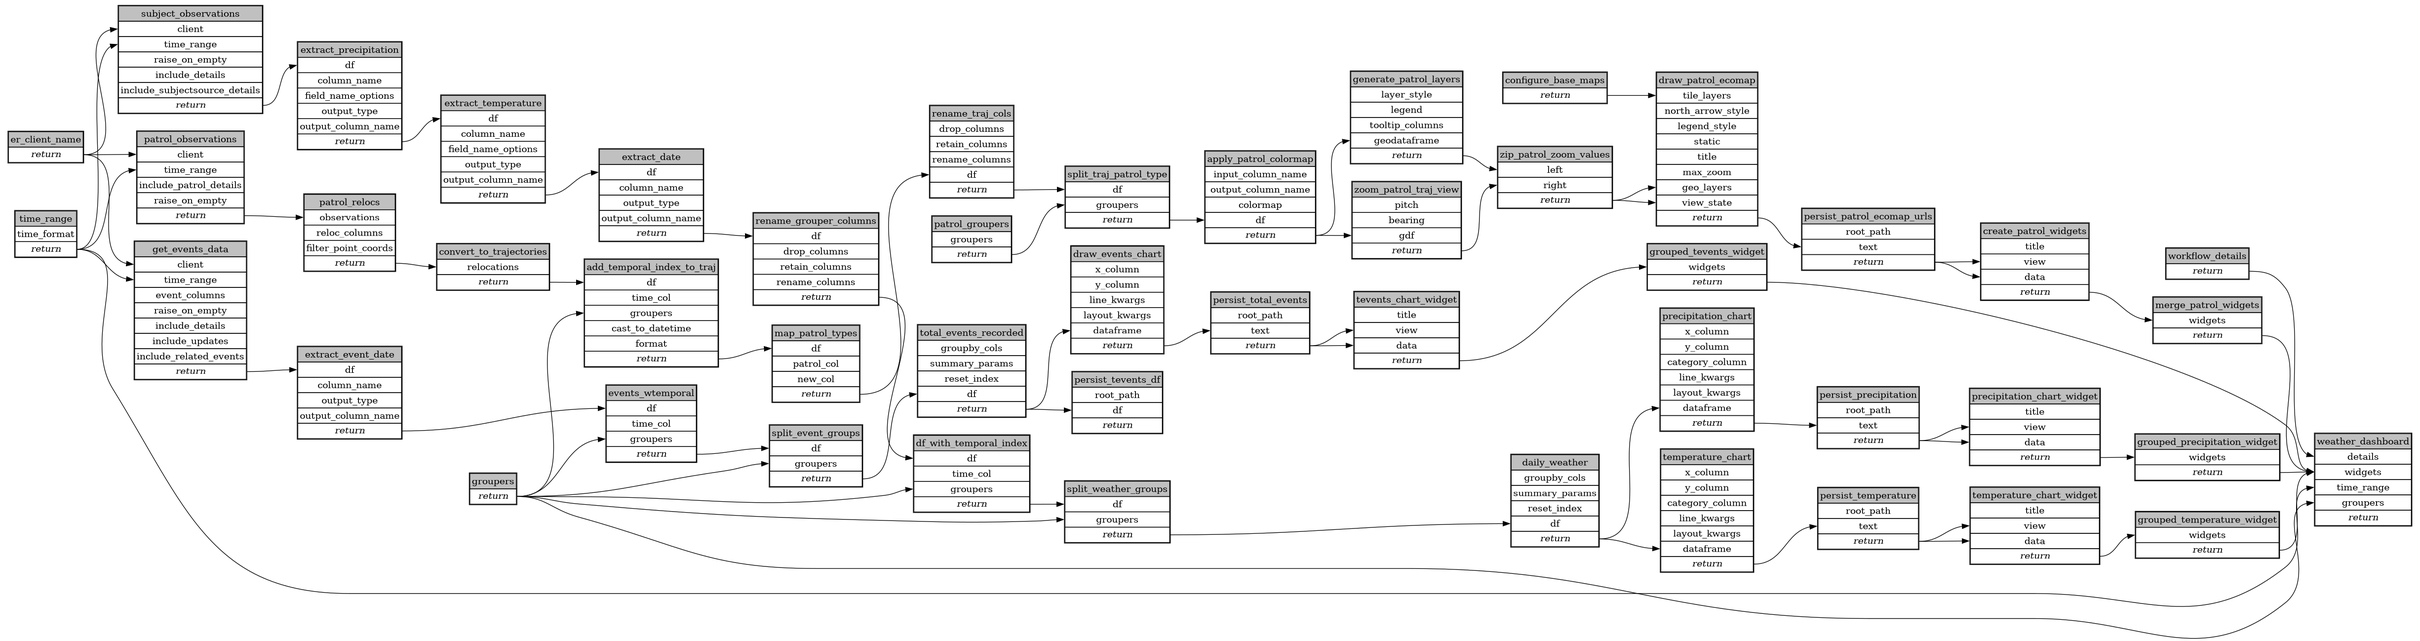
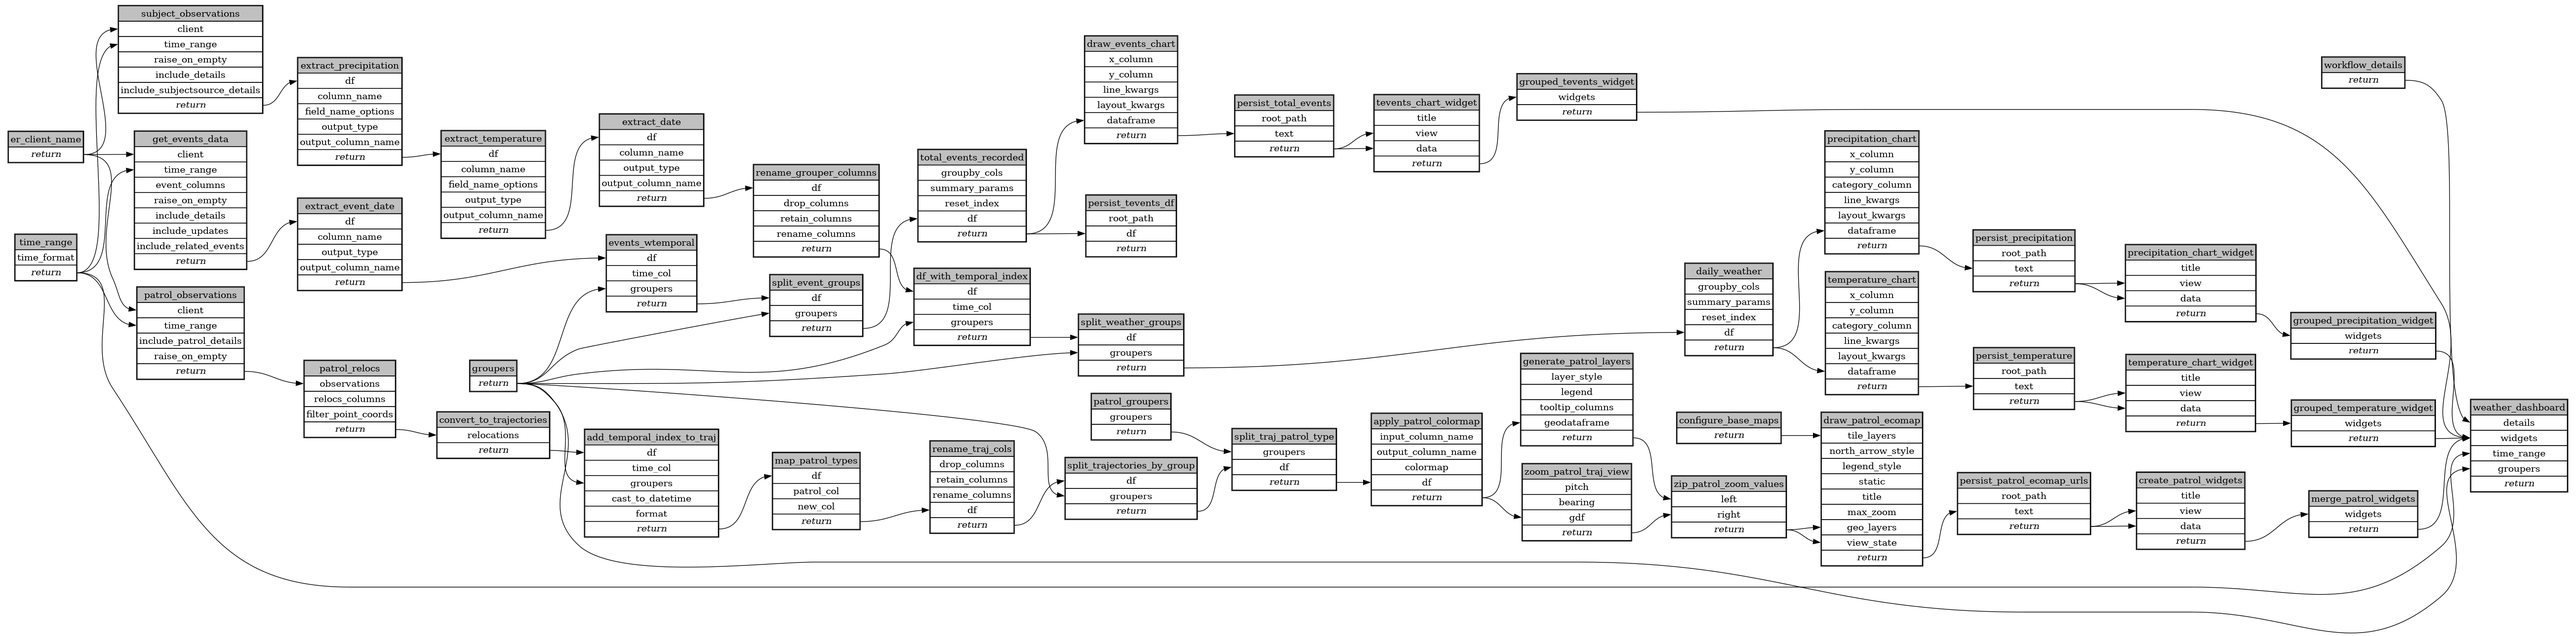
fix relocs_column keyword on patrol_observations and also group patrol observations by initial grouper and split it further based on patrol type

diff --git a/workflows/customized_report/ecoscope-workflows-customized-report-workflow/ecoscope_workflows_customized_report_workflow/dags/run_async_mock_io.py b/workflows/customized_report/ecoscope-workflows-customized-report-workflow/ecoscope_workflows_customized_report_workflow/dags/run_async_mock_io.py
@@ -134,8 +134,9 @@ def main(params: Params):
         "add_temporal_index_to_traj": ["convert_to_trajectories", "groupers"],
         "map_patrol_types": ["add_temporal_index_to_traj"],
         "rename_traj_cols": ["map_patrol_types"],
+        "split_trajectories_by_group": ["rename_traj_cols", "groupers"],
         "patrol_groupers": [],
-        "split_traj_patrol_type": ["rename_traj_cols", "patrol_groupers"],
+        "split_traj_patrol_type": ["patrol_groupers", "split_trajectories_by_group"],
         "apply_patrol_colormap": ["split_traj_patrol_type"],
         "generate_patrol_layers": ["apply_patrol_colormap"],
         "zoom_patrol_traj_view": ["apply_patrol_colormap"],
@@ -642,7 +643,7 @@ def main(params: Params):
             .set_executor("lithops"),
             partial={
                 "observations": DependsOn("patrol_observations"),
-                "reloc_columns": [
+                "relocs_columns": [
                     "extra__id",
                     "extra__created_at",
                     "extra__subject_id",
@@ -729,6 +730,17 @@ def main(params: Params):
             | (params_dict.get("rename_traj_cols") or {}),
             method="call",
         ),
+        "split_trajectories_by_group": Node(
+            async_task=split_groups.validate()
+            .handle_errors(task_instance_id="split_trajectories_by_group")
+            .set_executor("lithops"),
+            partial={
+                "df": DependsOn("rename_traj_cols"),
+                "groupers": DependsOn("groupers"),
+            }
+            | (params_dict.get("split_trajectories_by_group") or {}),
+            method="call",
+        ),
         "patrol_groupers": Node(
             async_task=set_groupers.validate()
             .handle_errors(task_instance_id="patrol_groupers")
@@ -744,11 +756,14 @@ def main(params: Params):
             .handle_errors(task_instance_id="split_traj_patrol_type")
             .set_executor("lithops"),
             partial={
-                "df": DependsOn("rename_traj_cols"),
                 "groupers": DependsOn("patrol_groupers"),
             }
             | (params_dict.get("split_traj_patrol_type") or {}),
-            method="call",
+            method="mapvalues",
+            kwargs={
+                "argnames": ["df"],
+                "argvalues": DependsOn("split_trajectories_by_group"),
+            },
         ),
         "apply_patrol_colormap": Node(
             async_task=apply_color_map.validate()

diff --git a/workflows/customized_report/ecoscope-workflows-customized-report-workflow/ecoscope_workflows_customized_report_workflow/dags/run_async.py b/workflows/customized_report/ecoscope-workflows-customized-report-workflow/ecoscope_workflows_customized_report_workflow/dags/run_async.py
@@ -92,8 +92,9 @@ def main(params: Params):
         "add_temporal_index_to_traj": ["convert_to_trajectories", "groupers"],
         "map_patrol_types": ["add_temporal_index_to_traj"],
         "rename_traj_cols": ["map_patrol_types"],
+        "split_trajectories_by_group": ["rename_traj_cols", "groupers"],
         "patrol_groupers": [],
-        "split_traj_patrol_type": ["rename_traj_cols", "patrol_groupers"],
+        "split_traj_patrol_type": ["patrol_groupers", "split_trajectories_by_group"],
         "apply_patrol_colormap": ["split_traj_patrol_type"],
         "generate_patrol_layers": ["apply_patrol_colormap"],
         "zoom_patrol_traj_view": ["apply_patrol_colormap"],
@@ -600,7 +601,7 @@ def main(params: Params):
             .set_executor("lithops"),
             partial={
                 "observations": DependsOn("patrol_observations"),
-                "reloc_columns": [
+                "relocs_columns": [
                     "extra__id",
                     "extra__created_at",
                     "extra__subject_id",
@@ -687,6 +688,17 @@ def main(params: Params):
             | (params_dict.get("rename_traj_cols") or {}),
             method="call",
         ),
+        "split_trajectories_by_group": Node(
+            async_task=split_groups.validate()
+            .handle_errors(task_instance_id="split_trajectories_by_group")
+            .set_executor("lithops"),
+            partial={
+                "df": DependsOn("rename_traj_cols"),
+                "groupers": DependsOn("groupers"),
+            }
+            | (params_dict.get("split_trajectories_by_group") or {}),
+            method="call",
+        ),
         "patrol_groupers": Node(
             async_task=set_groupers.validate()
             .handle_errors(task_instance_id="patrol_groupers")
@@ -702,11 +714,14 @@ def main(params: Params):
             .handle_errors(task_instance_id="split_traj_patrol_type")
             .set_executor("lithops"),
             partial={
-                "df": DependsOn("rename_traj_cols"),
                 "groupers": DependsOn("patrol_groupers"),
             }
             | (params_dict.get("split_traj_patrol_type") or {}),
-            method="call",
+            method="mapvalues",
+            kwargs={
+                "argnames": ["df"],
+                "argvalues": DependsOn("split_trajectories_by_group"),
+            },
         ),
         "apply_patrol_colormap": Node(
             async_task=apply_color_map.validate()

diff --git a/workflows/customized_report/ecoscope-workflows-customized-report-workflow/ecoscope_workflows_customized_report_workflow/dags/jupytext.py b/workflows/customized_report/ecoscope-workflows-customized-report-workflow/ecoscope_workflows_customized_report_workflow/dags/jupytext.py
@@ -903,9 +903,7 @@ patrol_observations = (
 # %%
 # parameters
 
-patrol_relocs_params = dict(
-    relocs_columns=...,
-)
+patrol_relocs_params = dict()
 
 # %%
 # call the task
@@ -915,7 +913,7 @@ patrol_relocs = (
     process_relocations.handle_errors(task_instance_id="patrol_relocs")
     .partial(
         observations=patrol_observations,
-        reloc_columns=[
+        relocs_columns=[
             "extra__id",
             "extra__created_at",
             "extra__subject_id",
@@ -1052,6 +1050,27 @@ rename_traj_cols = (
 
 
 # %% [markdown]
+# ## Split Trajectories by Group
+
+# %%
+# parameters
+
+split_trajectories_by_group_params = dict()
+
+# %%
+# call the task
+
+
+split_trajectories_by_group = (
+    split_groups.handle_errors(task_instance_id="split_trajectories_by_group")
+    .partial(
+        df=rename_traj_cols, groupers=groupers, **split_trajectories_by_group_params
+    )
+    .call()
+)
+
+
+# %% [markdown]
 # ## Set patrol type category groupers
 
 # %%
@@ -1084,10 +1103,8 @@ split_traj_patrol_type_params = dict()
 
 split_traj_patrol_type = (
     split_groups.handle_errors(task_instance_id="split_traj_patrol_type")
-    .partial(
-        df=rename_traj_cols, groupers=patrol_groupers, **split_traj_patrol_type_params
-    )
-    .call()
+    .partial(groupers=patrol_groupers, **split_traj_patrol_type_params)
+    .mapvalues(argnames=["df"], argvalues=split_trajectories_by_group)
 )
 
 

diff --git a/workflows/customized_report/ecoscope-workflows-customized-report-workflow/ecoscope_workflows_customized_report_workflow/dags/run_sequential.py b/workflows/customized_report/ecoscope-workflows-customized-report-workflow/ecoscope_workflows_customized_report_workflow/dags/run_sequential.py
@@ -488,7 +488,7 @@ def main(params: Params):
         .handle_errors(task_instance_id="patrol_relocs")
         .partial(
             observations=patrol_observations,
-            reloc_columns=[
+            relocs_columns=[
                 "extra__id",
                 "extra__created_at",
                 "extra__subject_id",
@@ -576,6 +576,17 @@ def main(params: Params):
         .call()
     )
 
+    split_trajectories_by_group = (
+        split_groups.validate()
+        .handle_errors(task_instance_id="split_trajectories_by_group")
+        .partial(
+            df=rename_traj_cols,
+            groupers=groupers,
+            **(params_dict.get("split_trajectories_by_group") or {}),
+        )
+        .call()
+    )
+
     patrol_groupers = (
         set_groupers.validate()
         .handle_errors(task_instance_id="patrol_groupers")
@@ -589,11 +600,10 @@ def main(params: Params):
         split_groups.validate()
         .handle_errors(task_instance_id="split_traj_patrol_type")
         .partial(
-            df=rename_traj_cols,
             groupers=patrol_groupers,
             **(params_dict.get("split_traj_patrol_type") or {}),
         )
-        .call()
+        .mapvalues(argnames=["df"], argvalues=split_trajectories_by_group)
     )
 
     apply_patrol_colormap = (

diff --git a/workflows/customized_report/ecoscope-workflows-customized-report-workflow/ecoscope_workflows_customized_report_workflow/dags/run_sequential_mock_io.py b/workflows/customized_report/ecoscope-workflows-customized-report-workflow/ecoscope_workflows_customized_report_workflow/dags/run_sequential_mock_io.py
@@ -530,7 +530,7 @@ def main(params: Params):
         .handle_errors(task_instance_id="patrol_relocs")
         .partial(
             observations=patrol_observations,
-            reloc_columns=[
+            relocs_columns=[
                 "extra__id",
                 "extra__created_at",
                 "extra__subject_id",
@@ -618,6 +618,17 @@ def main(params: Params):
         .call()
     )
 
+    split_trajectories_by_group = (
+        split_groups.validate()
+        .handle_errors(task_instance_id="split_trajectories_by_group")
+        .partial(
+            df=rename_traj_cols,
+            groupers=groupers,
+            **(params_dict.get("split_trajectories_by_group") or {}),
+        )
+        .call()
+    )
+
     patrol_groupers = (
         set_groupers.validate()
         .handle_errors(task_instance_id="patrol_groupers")
@@ -631,11 +642,10 @@ def main(params: Params):
         split_groups.validate()
         .handle_errors(task_instance_id="split_traj_patrol_type")
         .partial(
-            df=rename_traj_cols,
             groupers=patrol_groupers,
             **(params_dict.get("split_traj_patrol_type") or {}),
         )
-        .call()
+        .mapvalues(argnames=["df"], argvalues=split_trajectories_by_group)
     )
 
     apply_patrol_colormap = (

diff --git a/workflows/customized_report/ecoscope-workflows-customized-report-workflow/ecoscope_workflows_customized_report_workflow/formdata.py b/workflows/customized_report/ecoscope-workflows-customized-report-workflow/ecoscope_workflows_customized_report_workflow/formdata.py
@@ -306,17 +306,6 @@ class PatrolObservations(BaseModel):
     )
 
 
-class PatrolRelocs(BaseModel):
-    model_config = ConfigDict(
-        extra="forbid",
-    )
-    relocs_columns: List[str] = Field(
-        ...,
-        description="A list of column names to retain in the relocations dataframe.",
-        title="Relocs Columns",
-    )
-
-
 class TemporalGrouper(RootModel[str]):
     root: str = Field(..., title="Time")
 
@@ -425,9 +414,6 @@ class FormData(BaseModel):
     )
     patrol_observations: Optional[PatrolObservations] = Field(
         None, title="Get Patrol observations"
-    )
-    patrol_relocs: Optional[PatrolRelocs] = Field(
-        None, title="Transform observations to relocations"
     )
     convert_to_trajectories: Optional[ConvertToTrajectories] = Field(
         None, title="Convert Relocations to Trajectories"

diff --git a/workflows/customized_report/ecoscope-workflows-customized-report-workflow/ecoscope_workflows_customized_report_workflow/params.py b/workflows/customized_report/ecoscope-workflows-customized-report-workflow/ecoscope_workflows_customized_report_workflow/params.py
@@ -306,17 +306,6 @@ class PatrolObservations(BaseModel):
     )
 
 
-class PatrolRelocs(BaseModel):
-    model_config = ConfigDict(
-        extra="forbid",
-    )
-    relocs_columns: List[str] = Field(
-        ...,
-        description="A list of column names to retain in the relocations dataframe.",
-        title="Relocs Columns",
-    )
-
-
 class TemporalGrouper(RootModel[str]):
     root: str = Field(..., title="Time")
 
@@ -425,9 +414,6 @@ class Params(BaseModel):
     )
     patrol_observations: Optional[PatrolObservations] = Field(
         None, title="Get Patrol observations"
-    )
-    patrol_relocs: Optional[PatrolRelocs] = Field(
-        None, title="Transform observations to relocations"
     )
     convert_to_trajectories: Optional[ConvertToTrajectories] = Field(
         None, title="Convert Relocations to Trajectories"

diff --git a/workflows/customized_report/ecoscope-workflows-customized-report-workflow/README.md b/workflows/customized_report/ecoscope-workflows-customized-report-workflow/README.md
@@ -5,8 +5,8 @@
 
 ```yaml
 # fingerprint:
-artifacts_sha256_basic: be48b914eae6be55bbd010c06c42d6c3768cee40c88022c1df1e6bc7d1718013
-artifacts_sha256_strict: dae69f9d5dfb3bfe51fdc358fa5eff0876a3fcf267f89edc570e941b600f0fcb
+artifacts_sha256_basic: e223b1a464bffff24c7a952f0cab5c8003dd33b596f827e68c90ccf14cb4687c
+artifacts_sha256_strict: f21bd5d981d687d1df6b8106421695f75a2bea79715e9dc5daf70760411138dd
 installed_requirements:
 - channel: https://repo.prefix.dev/ecoscope-workflows/
   name: ecoscope-workflows-core
@@ -16,9 +16,9 @@ installed_requirements:
   version: {version: ==0.0.5}
 - channel: file:///tmp/ecoscope-workflows-custom/release/artifacts/
   name: ecoscope-workflows-ext-mnc
-  version: {version: ==10000.dev8+ga9567dbee.d20251022}
-params_sha256: bd6762e7c1bd0a2c5b6874140125493905214663391e627dc8eaba3e63b0a36e
-spec_sha256: 0c1374a94ac8d4d1242e25ddb5d1b396f8f985789e6307db57a43de2d4cb51bc
+  version: {version: ==10000.dev9+g53b0cb0cf.d20251022}
+params_sha256: 15e64acffaeacee923bafd4a39a2d150aef59786d8daffc462e2dfc0667c4529
+spec_sha256: 8545b379b5422c486260f776bdaa05703da4b8ad85c7e57bef78ffaf4370d7a8
 
 ```
 
